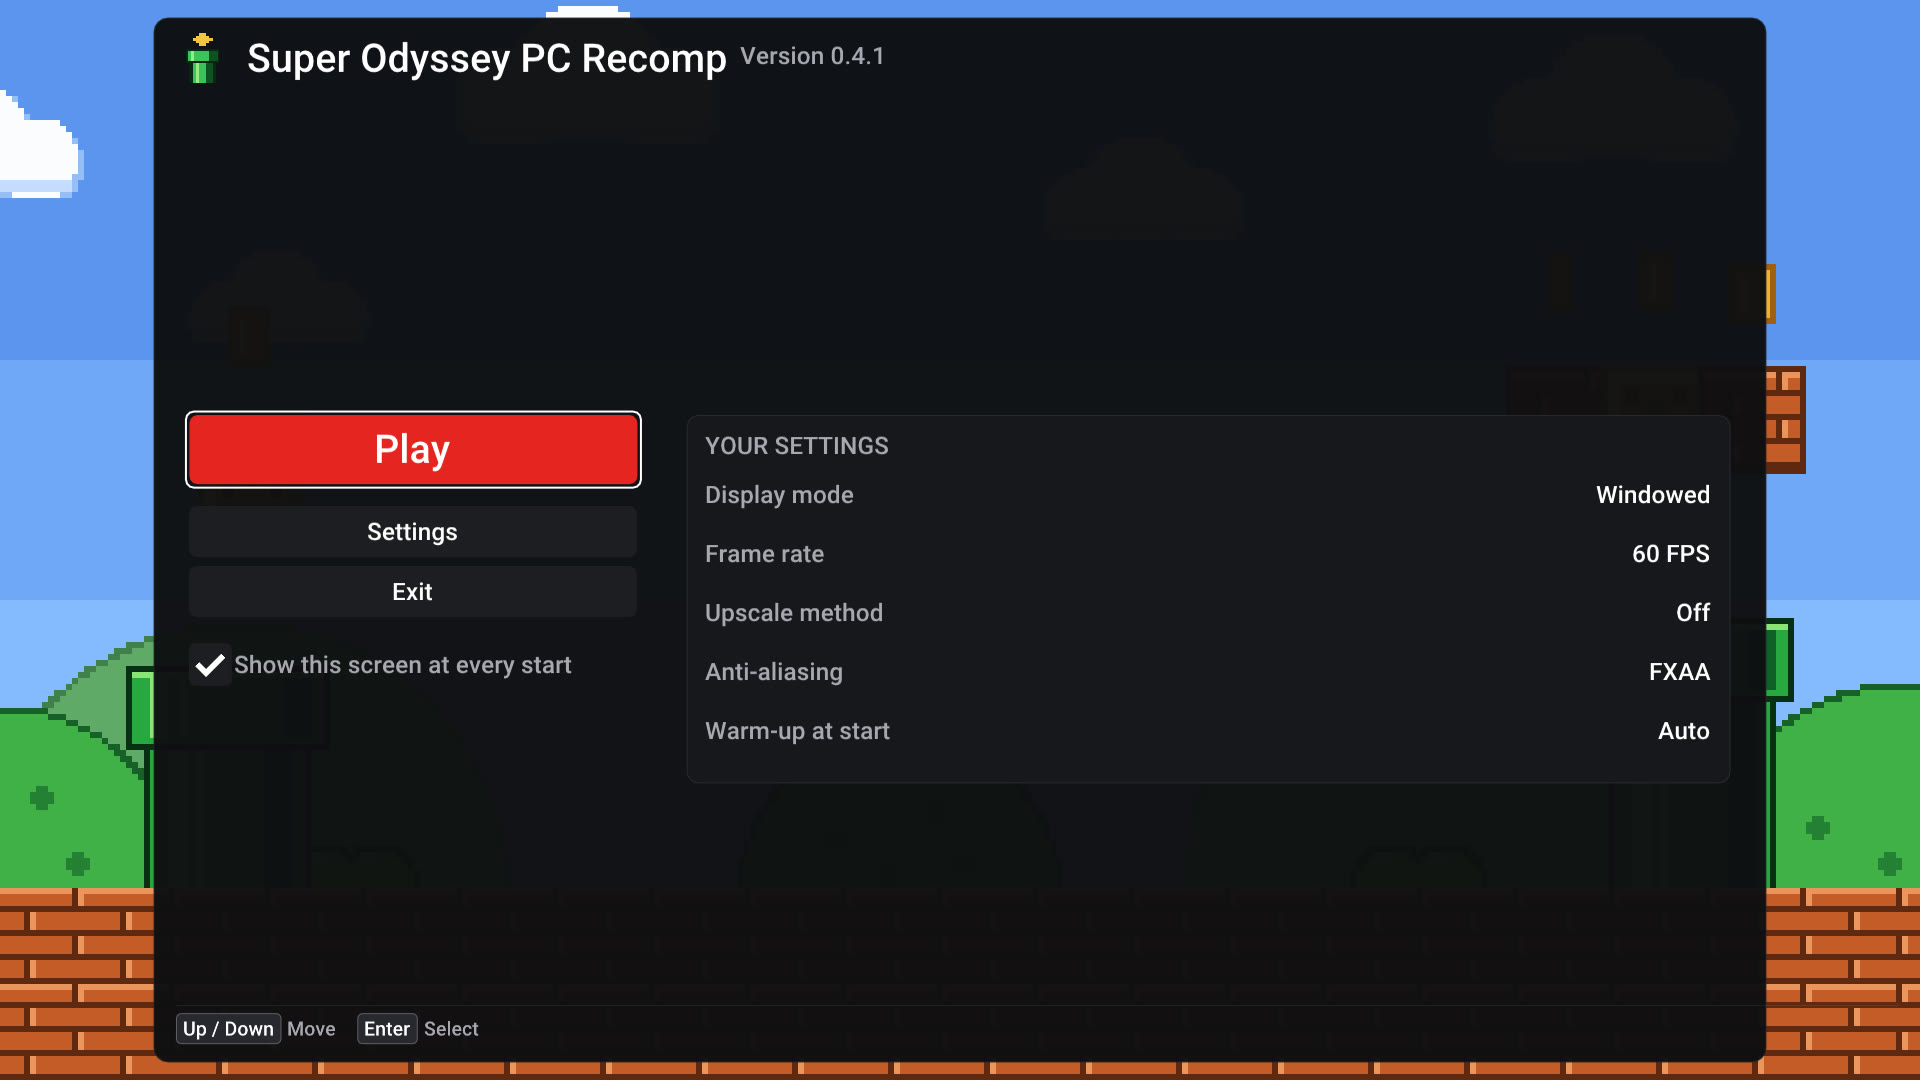
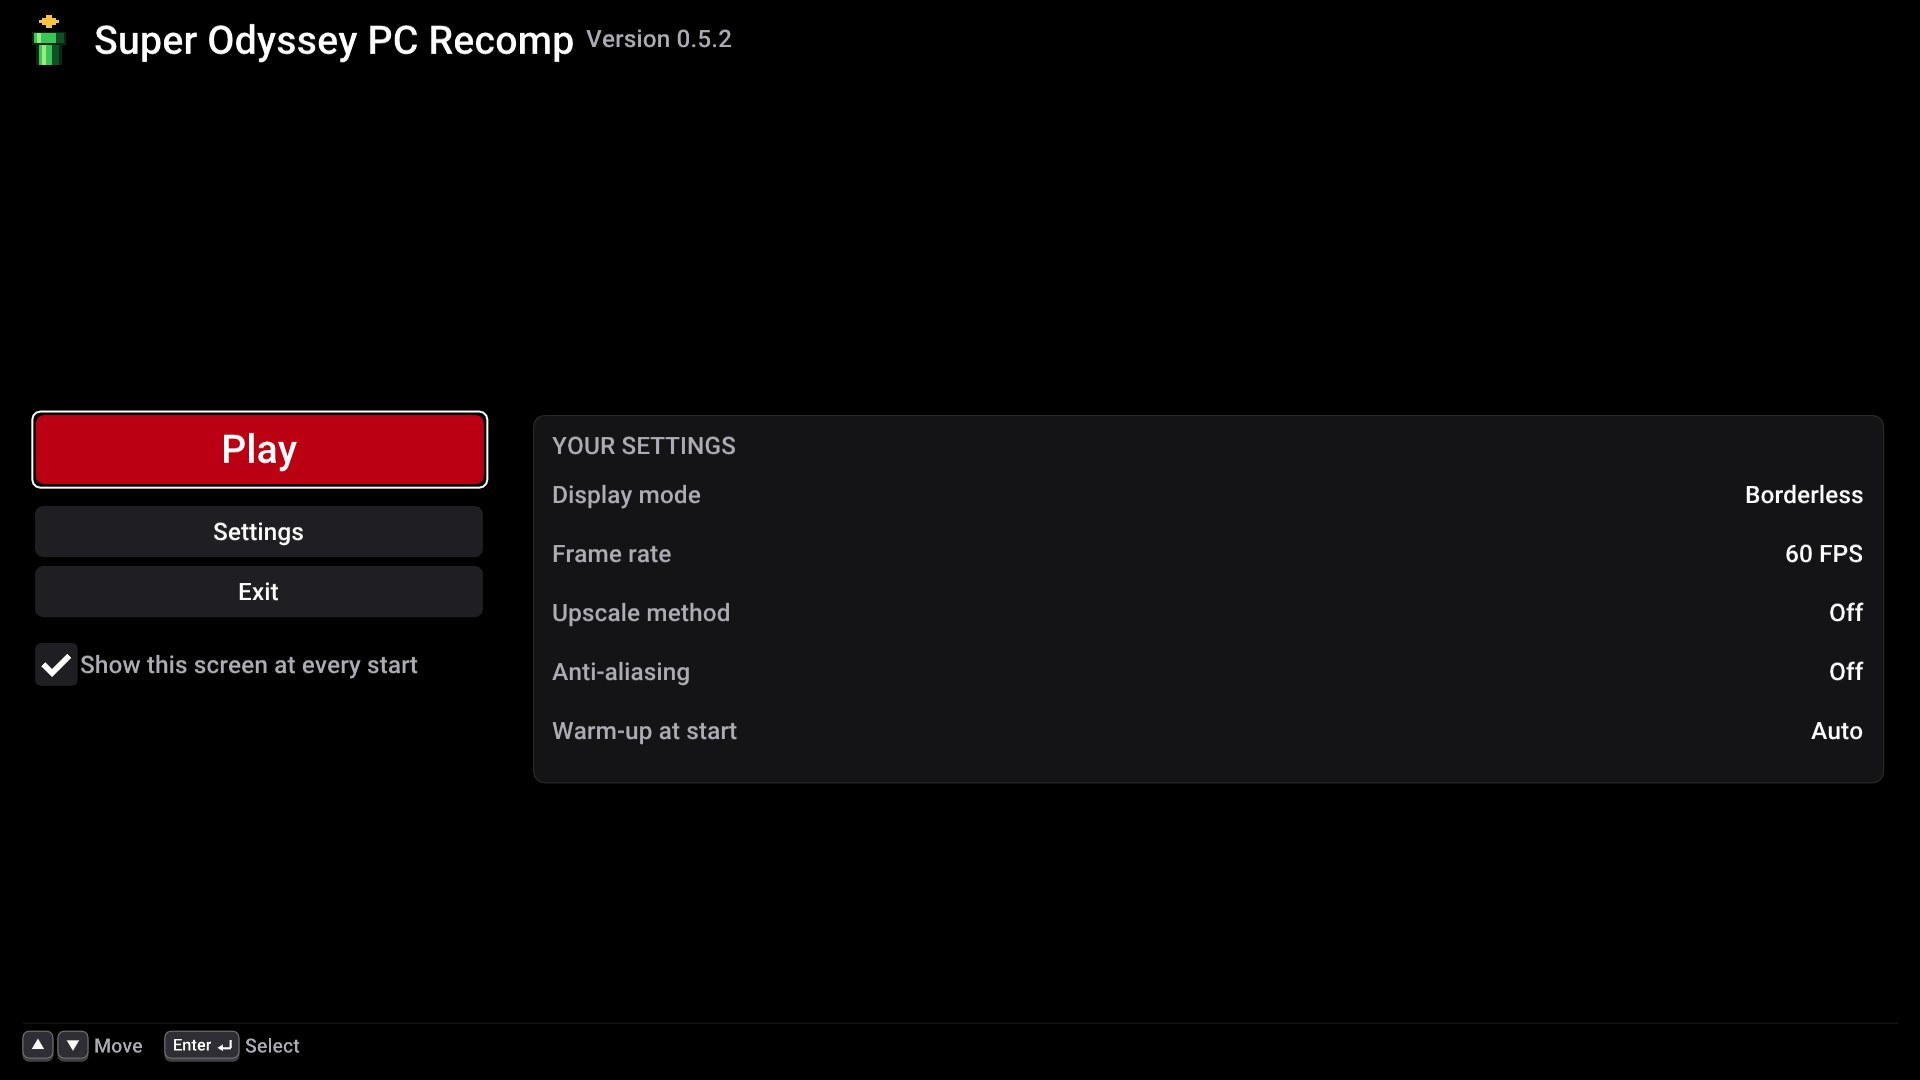
README and CONTRIBUTING brought up to date: 0.5.x features, the new menu, gyro, current known issues, credits and thanks

Changed region(s): [[0.0, 0.0, 1.0, 1.0], [0.2812, 0.6722, 0.4688, 0.7028], [0.625, 0.1833, 0.6562, 0.2139]]

diff --git a/README.md b/README.md
@@ -43,24 +43,35 @@ game.
 ## Features
 
 - **The whole game from your own copy**, versions 1.0.0 and 1.4.1 - no emulator runs while you play
-- **Frame rates from 60 to 240 FPS**, every frame really drawn, with **Match display** picking the smoothest rate for
-  your screen
-- **Resolutions up to 4K and beyond** (up to 4x the Switch's), and any screen shape: 16:9, 16:10, 21:9, 32:9, 4:3 or
-  Fill, with the HUD at the edges on ultrawide
+- **60 FPS on a Steam Deck**, and at 60 FPS on integrated graphics such as the Radeon graphics built into a Ryzen 9
+  9950X3D
+- **Frame rates from 60 to 240 FPS**, with **Match display** picking the smoothest rate for your screen (above 60 is
+  less smooth than 60 for now: see [Known issues](#known-issues))
+- **Resolutions up to 4K and beyond** (up to 4x the Switch's), and any screen shape: **Fill window** takes the
+  window's own shape - wider than 16:9 shows more at the sides, and with **Narrow picture view > Full width** narrower
+  screens (16:10, 4:3) show more above and below - or a fixed 16:9, 16:10, 21:9, 32:9 or 4:3 with bars
 - **Upscaling** with NVIDIA DLSS / DLAA, AMD FSR 1 / 2 / 3.1 / 4 and Intel XeSS, the HUD drawn at full resolution over
   the upscaled picture, plus **frame generation** (AMD FSR, NVIDIA DLSS beta) and NVIDIA Reflex
-- **Shaders prepared before you play**, and again by themselves after a driver update, so they are not compiled
-  while you play (a rare effect nobody has recorded yet can still hitch once)
-- **Sharper than the Switch when you want it**: FXAA or SMAA, 2x / 4x shadow maps, texture detail, 16x anisotropic
-  filtering, smooth colour gradients, a sharper HUD on large screens - and **the Switch's own look by default**
-- **Any controller**, with button icons that match it (Xbox, PlayStation, Switch), a Joy-Con pair, motion controls
-  and vibration; **keyboard and mouse** with a real mouse camera, and the mouse in the game's own menus
-- **A start screen and settings menu made for controller, mouse and keyboard**, where every option says what it does
-  and what is recommended, with button hints drawn for the device you are using - in English, Korean and Brazilian
-  Portuguese
-- **Steam Deck and PC handhelds**: 1280 x 800 at 60 FPS in Gaming Mode
+- **Shaders prepared before you play**, and again by themselves after a driver update or an update of the port, so
+  they are not compiled while you play (a rare effect nobody has recorded yet can still hitch once)
+- **Native code where it counts**: some of the game's heaviest work runs as native PC code instead of recompiled
+  Switch code - unpacking the game's files when a kingdom loads takes much less CPU, with fewer drops right after
+- **Much lower memory use** than the first versions, and a Low memory option for PCs with less RAM
+- **Sharper than the Switch when you want it**: FXAA or SMAA, 2x / 4x shadow maps, texture detail, bloom, draw
+  distance, 16x anisotropic filtering, smooth colour gradients, a sharper HUD on large screens - and **the Switch's own
+  look by default**
+- **Any controller**, with button icons that match it (Xbox, PlayStation, Switch), a Joy-Con pair and vibration;
+  **keyboard and mouse** with a real mouse camera, and the mouse in the game's own menus
+- **Gyro / motion controls** with DualSense, DualShock 4, Switch Pro, Joy-Con, 8BitDo and the **Steam Deck's own
+  gyro** (also with Steam Input on): shake to throw Cappy, motion aiming, binoculars; sensitivity, inversion,
+  calibration and a shake button
+- **A settings menu with a live picture**: tabs along the top, every option saying what it does and what is
+  recommended, and the game itself shown while you change graphics settings - made for controller, mouse and keyboard,
+  in English, Korean and Brazilian Portuguese
+- **Steam Deck and PC handhelds**: 1280 x 800 at 60 FPS in Gaming Mode, a native Linux AppImage
 - **Built-in updates**, RomFS mods, 5.1 surround, a performance overlay, Discord activity (off by default)
-- **Crash reports you can read**: what happened, where, and a signature to match the same crash between players
+- **Crash reports you can read**: what happened, where, and a signature to match the same crash between players -
+  also when the game is started from a launcher
 
 <p align="center"><a href="docs/media/cap-120fps-4k-overlay.jpg"><img src="docs/media/cap-120fps-4k-overlay.jpg" alt="Cap Kingdom at 4K and 120 FPS with the performance overlay" width="80%"></a></p>
 <p align="center"><sub>Cap Kingdom at 3840 x 2160 and 120 FPS with the port's own performance overlay (0.4.4, upscaling and anti-aliasing off): the graphics card at 63%, the game using 3% of the CPU and 6.5 GB of RAM. One PC, an RTX 4090 with a Ryzen 9 9950X3D; other PCs and busier places will show other numbers.</sub></p>
@@ -69,7 +80,7 @@ game.
   <a href="docs/media/start-screen.jpg"><img src="docs/media/start-screen.jpg" alt="The start screen" width="49%"></a>
   <a href="docs/media/settings-in-game.jpg"><img src="docs/media/settings-in-game.jpg" alt="The settings menu in game" width="49%"></a>
 </p>
-<p align="center"><sub>The start screen and the settings menu (0.4.1): Play first, categories in a sidebar, every option explained.</sub></p>
+<p align="center"><sub>The start screen and the settings menu in game (0.5.3): Play first, categories as tabs along the top, every option explained, and the game's live picture on the right.</sub></p>
 
 ## Status
 
@@ -128,16 +139,17 @@ You can also download the new zip from [Releases](../../releases) and extract it
 This is a preview. Known problems and things not done yet:
 
 - **Being worked on** (from the [issues](../../issues)):
-  - The game freezes on Radeon RX 7800 XT under Linux (#21).
-  - The Steam Deck's own gyro isn't read yet (#68); a no-sound report on the Deck (#43).
-  - Sounds that click or crackle (#97): one cause was found and fixed in 0.4.5 (see
-    [What we measured and fixed](#what-we-measured-and-fixed)); reports from other PCs are still open.
-  - A tutorial video that stays black with FSR 3.1 on (#66): turn FSR 3.1 off, or use FSR 1, to see the videos.
-  - Memory on PCs with 16 GB of RAM (#75, #61): 0.4.3 uses much less on our test PC; we are waiting to hear how it
-    is on those PCs.
-- **Frame rates above 60** are less tested than 60, on both game versions: some objects or effects can move unevenly,
-  and the busiest places (New Donk City seen from high up, riding its power lines) can drop frames on any PC.
-  Painting transitions play at 60 FPS on purpose.
+  - "Out of graphics memory" a few seconds in on 8 GB laptops with integrated graphics (#120, #99): a fix is being
+    tested.
+  - Visual corruption in some scenes (#66), running dust drawn as black squares on some AMD cards (#103), effects
+    still missing a shader (#104), graphics glitches with Intel graphics on Linux (#98).
+  - Low frame rate in Wooded Kingdom on some PCs (#75), and the death screen disappearing (#114).
+  - Steam Deck: portable-mode UI scaling (#100).
+- **Frame rates above 60** aren't fully smooth yet: the game itself updates 60 times a second, and on 1.4.1 only
+  the frames are drawn faster, so motion looks like 60. The busiest places (New Donk City seen from high up, riding its
+  power lines) can drop frames on any PC. Painting transitions play at 60 FPS on purpose.
+- **Draw distance > Very high** is heavy: in New Donk City it halved the frame rate on a fast PC. High costs almost
+  nothing.
 - **Version 1.4.1** is newer in this port than 1.0.0 and less tested.
 - **A short stutter can still happen** the first time a rare effect is drawn whose pipeline state nobody has recorded
   yet. It's prepared then and kept for next time.
@@ -167,25 +179,27 @@ For a graphics glitch, pressing **F9** where it happens saves the frame's detail
 
 - Windows 10 / 11 (x64), a 64-bit CPU - AVX2 (Intel Haswell / AMD Zen or newer) recommended; older CPUs without AVX2
   (Intel Sandy / Ivy Bridge and earlier) are supported but slower - a GPU with Vulkan 1.3 and an up-to-date driver
-- 8 GB RAM (16 GB recommended), about 12 GB free disk space
+- 8 GB RAM (16 GB recommended; 8 GB laptops with integrated graphics can run out of graphics memory for now, #120),
+  about 12 GB free disk space
 - The extracted `exefs` and `romfs` folders of your own Super Mario Odyssey (1.0.0, or 1.4.1 with the update applied)
 
 ## Settings
 
-Open the menu with **F1** or **Esc** (controller: Home / Guide button, or Back + Start). The categories are in a
-sidebar on the left: move onto one to see it, press A / Enter / Right (or click) to go into it, B / Esc to come back,
-and L / R (Q / E) to switch from anywhere. The bar at the bottom shows what your buttons do, and the text on the right
-explains the selected option and says what is recommended.
+Open the menu with **F1** or **Esc** (controller: Home / Guide button, or Back + Start). The categories are tabs
+along the top: L / R (Q / E) switch them from anywhere, Down / A goes into the page, B / Esc comes back. Left / Right
+change the selected option. In game, the right side shows the game itself as you change settings, and below it what
+the selected option does and what is recommended. The bar at the bottom shows what your buttons do.
 
-- **Display**: windowed, borderless or exclusive fullscreen, display resolution, VSync, aspect ratio, console mode
+- **Display**: windowed, borderless or exclusive fullscreen, display resolution, VSync, aspect ratio, narrow picture
+  view, console mode, dynamic resolution
 - **Graphics**: internal resolution, anti-aliasing, upscaling and frame generation, texture filtering and detail,
-  shadow quality, smooth gradients, sharper HUD and menus
+  shadow quality, bloom quality, draw distance, smooth gradients, sharper HUD and menus
 - **Performance**: early frame hand-off, multithreaded rendering, frame rate (60 to 240 FPS or Match display),
   Discord activity, shader preparation, memory use
 - **Overlay**: the FPS counter, and the performance overlay with what it shows, where and how large
 - **Audio**: volume, stereo or 5.1, reverb, movie audio, mute in background
-- **Controls**: motion controls, vibration, stick deadzone and speed, mouse camera, mouse in menus, button prompts,
-  key and button rebinding
+- **Controls**: motion controls (gyro sensitivity, inversion, calibration, shake button), vibration, stick deadzone
+  and speed, mouse camera, mouse in menus, button prompts, key and button rebinding
 - **Language**, **Mods** (RomFS mods on and off), **Updates**
 
 ## Controls
@@ -210,8 +224,11 @@ The game's button icons follow what you play with: after a key press or mouse mo
 LB / RB / LT / RT), PlayStation (cross circle square triangle, L1 / R1 / L2 / R2) or the Switch's. With two controllers
 connected, the one you press a button on takes over. Menu > Controls > *Button prompts* can fix them to one style.
 
-Motion controls (shake to throw Cappy at a target, and the game's other motion moves) use the controller's gyro and
-accelerometer: PlayStation and Switch Pro controllers. Menu > Controls > *Motion controls* turns them off.
+Motion controls (shake to throw Cappy at a target, motion aiming, looking through binoculars, and the game's other
+motion moves) use the controller's gyro and accelerometer: PlayStation, Switch Pro, Joy-Con, 8BitDo and the Steam
+Deck's own. On the Deck it works with Steam Input on; leave the gyro unmapped in Steam's controller layout so Steam
+doesn't also move the camera with it. Menu > Controls has the gyro's sensitivity, inversion and calibration, a
+**Shake button** (throw Cappy with a button instead of shaking) and *Motion controls* to turn them off.
 
 ## Files
 
@@ -289,6 +306,10 @@ Bug reports are read and worked on the same way: the maintainer tests, and Claud
   is ported from (MIT license, `tools/vendor/macnativegames`), and
   **[TotK PC Recomp](https://github.com/valentderah/totk-pc-recomp)**'s hactool build script (`tools/build_hactool.py`,
   MIT) used for checking
+- **[Savage Wind Recomp](https://github.com/Revivedx/SavageWindRecomp)** by Revivedx and its contributors - how the
+  motion sensor's orientation is handed to the game, which fixed gyro aiming through binoculars (#53) (MIT license).
+- **Rekarina** - the settings menu's layout (tabs along the top, a live picture beside the options) was inspired by
+  its menu; no code or artwork from it is used.
 - [OdysseyDecomp](https://github.com/MonsterDruide1/OdysseyDecomp) - names and structure of the game's code, used for
   reading and debugging (no code from it is in this repository)
 - [Switchbrew](https://switchbrew.org) and [envytools](https://github.com/envytools/envytools) - documentation of the
@@ -320,8 +341,10 @@ Steam Deck** before it is merged; nothing from a contributor ships untested. Nev
   pointer (#86).
 - **zzzarathustra-dev** - shaders precompiled before the first start and the first Steam Deck defaults (0.2.1).
 - **Codex** (OpenAI) - fixes and features across the runtime (see [Who made this](#who-made-this)).
-- Everyone who reported a bug with logs, crash reports, screenshots and saves: most fixes started there - the
-  painting crash was found from two players' reports (#72, #85), the frame generation crash from one log (#77).
+- Everyone who reported a bug with logs, crash reports, screenshots, videos and saves: most fixes started there -
+  the painting crash was found from two players' reports (#72, #85), the frame generation crash from one log (#77),
+  the long-session crash from one report (#113), the reversed binocular gyro from a player's video (#53), and several
+  reports came with their own investigation (#94, #120, #121). Thank you - keep them coming.
 
 ## What we measured and fixed
 
@@ -394,6 +417,20 @@ Nothing here was judged by feel alone. The tools are in the source, as `ODYSSEY_
   happened 425 times, with 138 isolated ticks in the output; with a new sound starting at its own volume, as on the
   console, there were none, and the maintainer confirmed it by ear in stereo and 5.1.
 - Not listened to on a Steam Deck. Crackling from a busy PC (the sound device running dry) is a different cause.
+
+### Shaders, CPU and the Steam Deck (0.5.0 - 0.5.3)
+
+- **Shader stutter after updates:** the saved shader translations were labelled with the build's time, so every new
+  version threw them away and the first kingdom translated thousands of shaders while playing. They are now labelled
+  with the translator's own source, and the shipped pipeline seed is checked against each release before it goes out.
+- **Native file unpacking:** the game unpacks its compressed files (Yaz0) with recompiled code on a worker thread;
+  that function now runs as native code, which took most of the CPU cost out of the drops right after a kingdom loads.
+- **Steam Deck hitches:** with 8 CPU threads or fewer the port now runs 2 shader workers and 1 translator instead of
+  4 + 2, so they no longer starve the game's main thread; in the bench walk no frame went over 50 ms.
+- **Draw distance:** measured in New Donk City at a 120 FPS target - Switch 119 FPS, High 120, Very high 55-61, with
+  the time spent in the game's own updates of faraway objects (CPU), not in the graphics card. The menu now says so.
+- **Gyro through binoculars (#53):** the motion sensor's orientation was handed to the game the wrong way round (the
+  inverse rotation); handed over as Savage Wind Recomp does, both directions are right on a Steam Deck.
 
 ### Still open
 

diff --git a/CONTRIBUTING.md b/CONTRIBUTING.md
@@ -6,23 +6,37 @@ Bug reports, testing on different hardware and code contributions are welcome.
 
 Nothing owned by Nintendo may ever be committed or attached to an issue or pull request:
 
-- no copies of the game in any form (NSP, XCI, NCA, extracted folders)
+- no copies of the game in any form (game packages or extracted folders)
 - no extracted game files (`extracted/`), no generated code (`generated/`), no game code library
   (`odyssey_game.dll`), no fonts (`.bfttf` / Switch `.ttf`)
 - no game assets of any kind: textures, models, music, text, level files - also not "just one file for testing"
 
 `.githooks/pre-commit` refuses such files (`git config core.hooksPath .githooks`). Screenshots and short clips of the
-game in bug reports are fine. Logs are fine too.
+game in bug reports are fine. Logs are fine too. Requests for game files are closed.
 
 ## Reporting bugs
 
-Please include your hardware (CPU, GPU, driver version), what you did, what happened and what you expected, and the
-log: `SuperOdysseyRecomp.log` in the install folder (it names the crash and the game's call chain). A save
-from just before the problem helps a lot.
+Please include:
+
+- what you did, what happened and what you expected, and where in the game (a screenshot or a short clip helps)
+- your game version (1.0.0 or 1.4.1), the port's version, your OS, CPU, GPU and driver version
+- the log: `SuperOdysseyRecomp.log` in the install folder (it names the crash and the game's call chain)
+- after a crash, the **crash report**: the error box has a **Copy crash report** button
+- for a graphics glitch, press **F9** where it happens: the frame's details go into the log
+- a save from just before the problem helps a lot
 
 ## Code
 
 - Match the style of the surrounding code; comments say why, not what.
 - The game is the reference: a fix should make the port behave like the Switch, not hide a symptom. The debugging
   tools are environment variables (`ODYSSEY_*`), documented where they are read.
-- Test a change in the game before sending it (`tools/odyssey_run.sh`, a stage warp: `ODYSSEY_WARP`).
+- Menu text: every new option needs a plain-English note in `runtime/ui/option_notes.h` (what it does, what is
+  recommended), and its strings in `runtime/ui/lang/*.txt` (Korean, Brazilian Portuguese).
+- Test a change in the game before sending it (`tools/odyssey_run.sh`, a stage warp: `ODYSSEY_WARP`), and say in the
+  pull request what you tested and on which hardware.
+
+## How pull requests are handled
+
+Every pull request is read line by line for anything harmful, then built and played on **Windows and a Steam Deck**
+before it is merged. Nothing from a contributor ships untested, and releases go out only after the release build
+itself has passed those tests (`tools/release.sh`).
